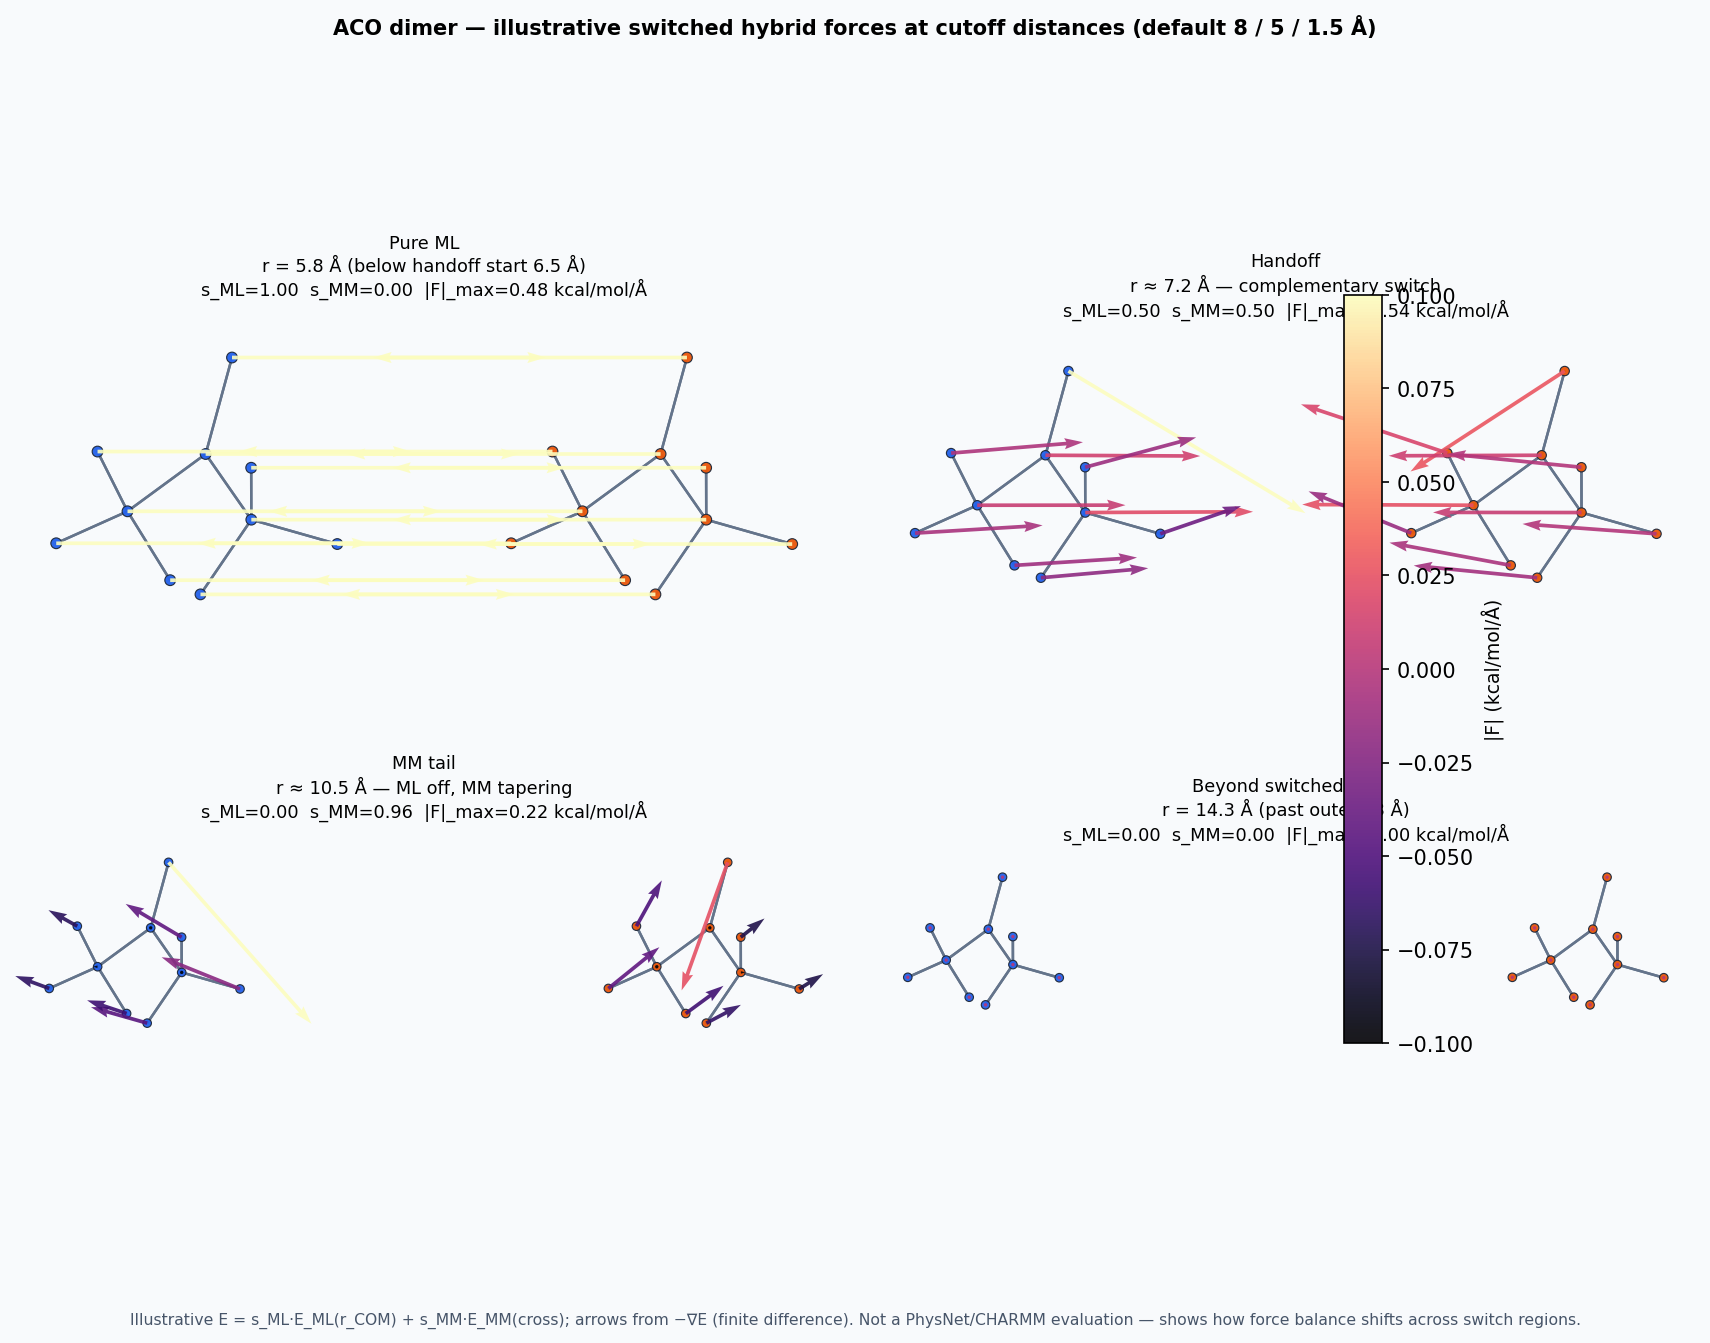
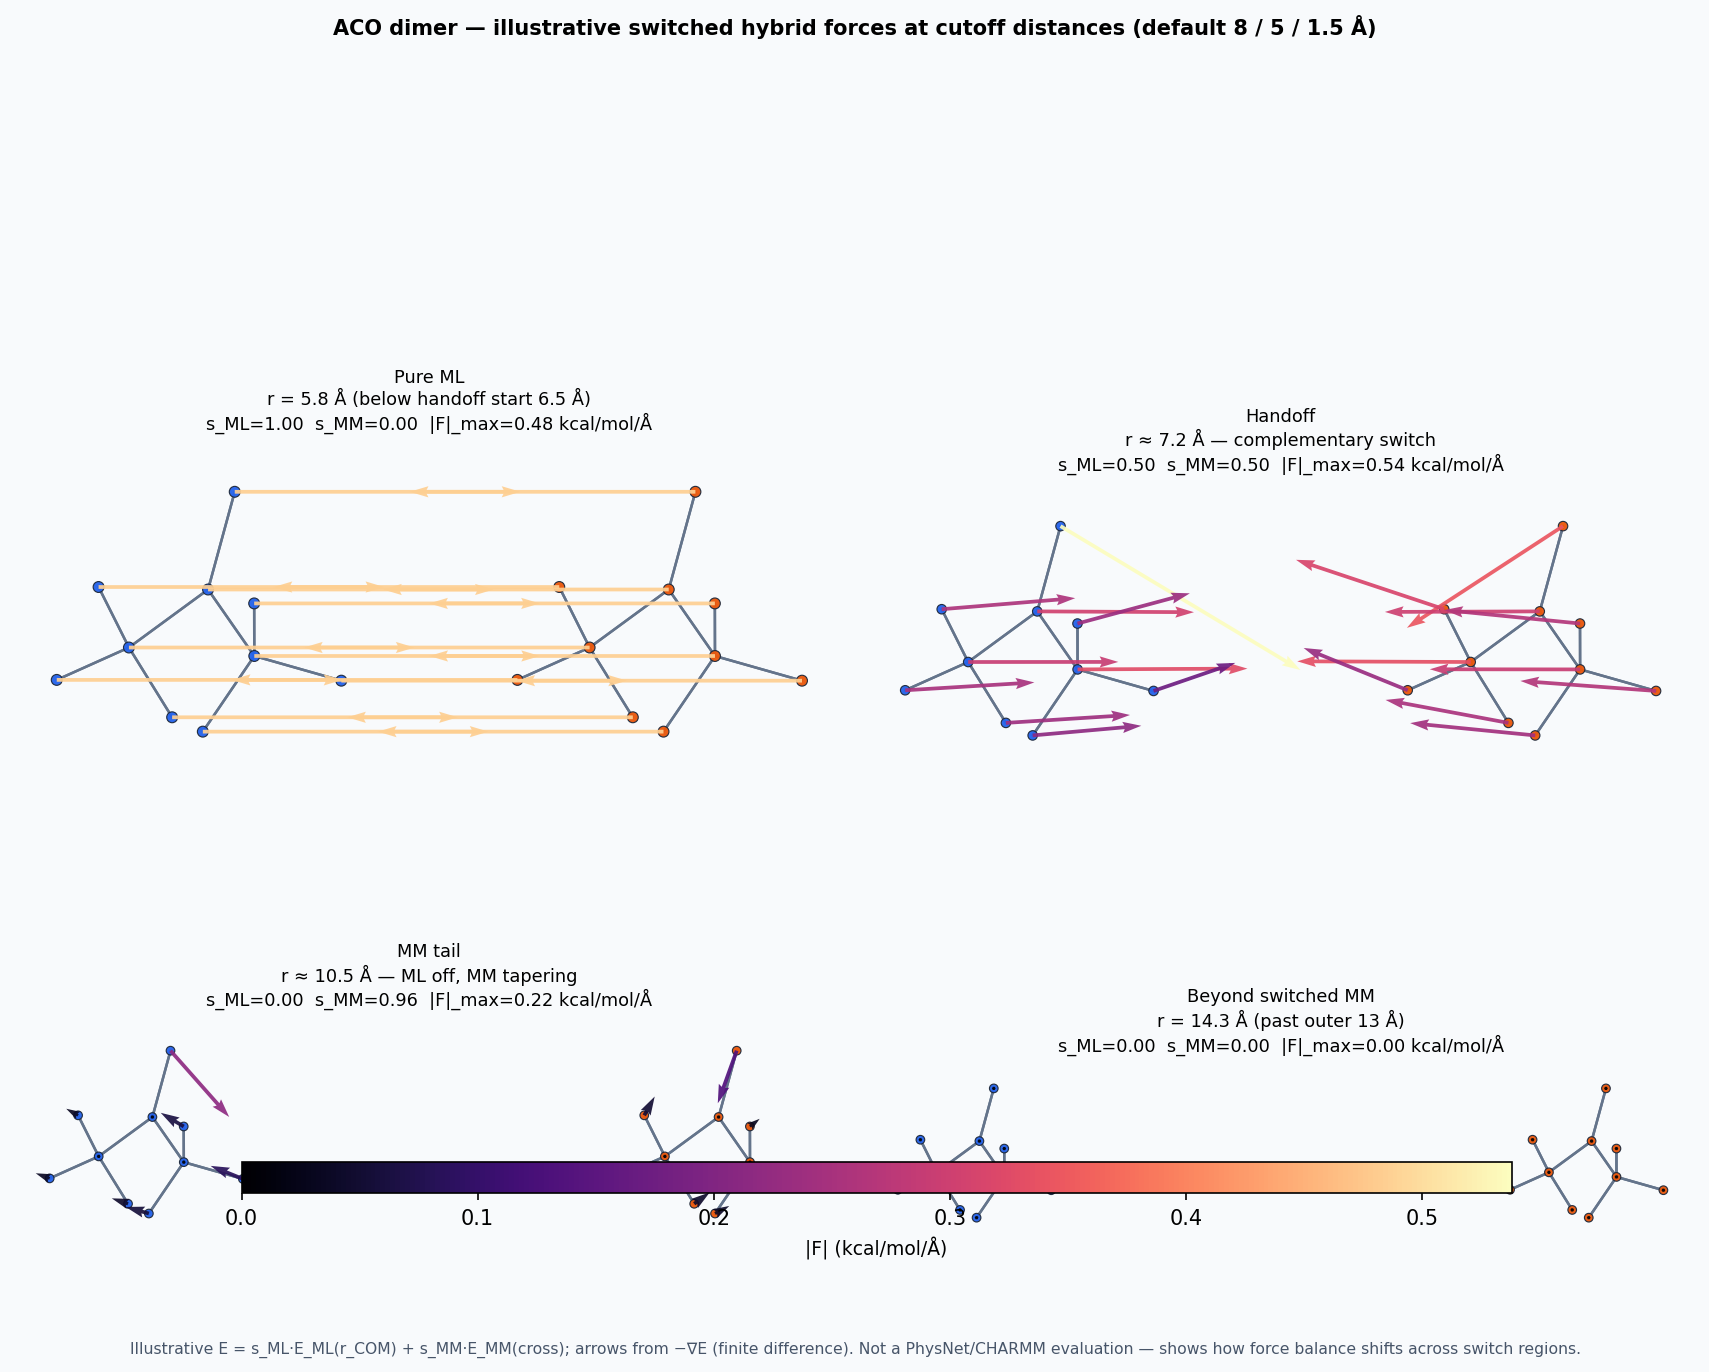
Update dimer force visualization and enhance plotting functionality
- Updated `plot_mlpot_settings.py` to improve the dimer force vector panel generation, including a new normalization approach for force magnitudes.
- Enhanced the layout of dimer force cutoff panels for better visual representation and added a colorbar for clarity on force values.
- Modified the output figure dimensions and layout adjustments to ensure optimal presentation of the dimer force illustrations.
- Updated binary images for dimer force cutoffs to reflect the latest changes in visualization.

diff --git a/scripts/plot_mlpot_settings.py b/scripts/plot_mlpot_settings.py
@@ -546,6 +546,7 @@ def _draw_dimer_forces_panel(
     zone: str,
     subtitle: str,
     rotation: str = "25x,18y,0z",
+    force_norm=None,
 ) -> None:
     from ase import Atoms
     from ase.data import chemical_symbols
@@ -591,49 +592,56 @@ def _draw_dimer_forces_panel(
         )
     f2d = _forces_in_image_plane(pos, forces, writer)
     fmag = np.linalg.norm(forces, axis=1)
-    fmax = float(fmag.max()) if fmag.size else 1.0
+    fmax = float(force_norm.vmax) if force_norm is not None else float(fmag.max() or 1.0)
     quiver_scale = max(0.25 * fmax, 0.05)
-    q = ax.quiver(
+    ax.quiver(
         im_pos[:, 0],
         im_pos[:, 1],
         f2d[:, 0],
         f2d[:, 1],
         fmag,
         cmap="magma",
+        norm=force_norm,
         angles="xy",
         scale_units="xy",
         scale=quiver_scale,
         width=0.0045,
         zorder=4,
-        alpha=0.9,
-        clim=(0.0, fmax),
+        alpha=0.92,
     )
     ax.set_xlim(0, writer.w)
     ax.set_ylim(0, writer.h)
     ax.set_aspect("equal", adjustable="box")
     ax.set_axis_off()
     ax.set_title(f"{zone}\n{subtitle}", fontsize=8.5, fontweight="500", pad=4)
-    return q
 
 
 def plot_dimer_forces_cutoff_panels(residue: str) -> Path:
     """ASE orthographic dimer views with force quivers at key COM distances."""
+    import matplotlib.colors as mcolors
+
     cp = CutoffParameters()
     mono_rel, z, charges = _load_monomer_template(residue)
     specs = _panel_distance_specs(cp)
     res_label = residue.strip().upper()
 
-    fig, axes = plt.subplots(2, 2, figsize=(11.5, 9.0), facecolor=_ILLUSTRATION_STYLE["figure_facecolor"])
-    q_last = None
+    fig, axes = plt.subplots(2, 2, figsize=(11.5, 9.2), facecolor=_ILLUSTRATION_STYLE["figure_facecolor"])
+    panel_rows: list[tuple] = []
+    global_fmax = 0.0
     for ax, (zone, dist, subtitle) in zip(axes.ravel(), specs, strict=True):
         ax.set_facecolor(_ILLUSTRATION_STYLE["axes_facecolor"])
         pos, z_full, q_full, n_per = _dimer_positions(mono_rel, z, charges, dist)
         forces = _hybrid_forces_fd(pos, z_full, q_full, n_per, cp)
+        global_fmax = max(global_fmax, float(np.linalg.norm(forces, axis=1).max()))
+        panel_rows.append((ax, zone, dist, subtitle, pos, z_full, forces, n_per))
+
+    force_norm = mcolors.Normalize(vmin=0.0, vmax=max(global_fmax, 1e-6))
+    for ax, zone, dist, subtitle, pos, z_full, forces, n_per in panel_rows:
         r_com = _com_distance(pos, n_per)
         s_ml = float(cp.ml_scale(r_com, gamma_ml=GAMMA_ON))
         s_mm = float(cp.mm_scale_complementary(r_com, gamma_ml=GAMMA_ON, gamma_mm_off=GAMMA_OFF))
         ann = f"s_ML={s_ml:.2f}  s_MM={s_mm:.2f}  |F|_max={np.linalg.norm(forces, axis=1).max():.2f} kcal/mol/Å"
-        q_last = _draw_dimer_forces_panel(
+        _draw_dimer_forces_panel(
             ax,
             pos,
             z_full,
@@ -641,10 +649,21 @@ def plot_dimer_forces_cutoff_panels(residue: str) -> Path:
             n_per,
             zone=zone,
             subtitle=f"{subtitle}\n{ann}",
+            force_norm=force_norm,
         )
-    if q_last is not None:
-        cbar = fig.colorbar(q_last, ax=axes.ravel().tolist(), shrink=0.72, pad=0.02)
-        cbar.set_label("|F| (kcal/mol/Å)", fontsize=9)
+
+    sm = plt.cm.ScalarMappable(cmap="magma", norm=force_norm)
+    sm.set_array([])
+    cbar = fig.colorbar(
+        sm,
+        ax=axes.ravel().tolist(),
+        orientation="horizontal",
+        fraction=0.05,
+        pad=0.10,
+        aspect=40,
+        shrink=0.95,
+    )
+    cbar.set_label("|F| (kcal/mol/Å)", fontsize=9)
     fig.suptitle(
         f"{res_label} dimer — illustrative switched hybrid forces at cutoff distances "
         f"(default {DEFAULT_MM_SWITCH_ON:g} / {DEFAULT_MM_SWITCH_WIDTH:g} / {DEFAULT_ML_SWITCH_WIDTH:g} Å)",
@@ -661,7 +680,7 @@ def plot_dimer_forces_cutoff_panels(residue: str) -> Path:
         fontsize=7.5,
         color="#475569",
     )
-    fig.tight_layout(rect=(0, 0.03, 1, 0.95))
+    fig.tight_layout(rect=(0, 0.08, 1, 0.93))
     slug = res_label.lower()
     out = OUT_DIR / f"{slug}_dimer_forces_cutoffs.png"
     fig.savefig(out, dpi=150, bbox_inches="tight", facecolor=fig.get_facecolor())